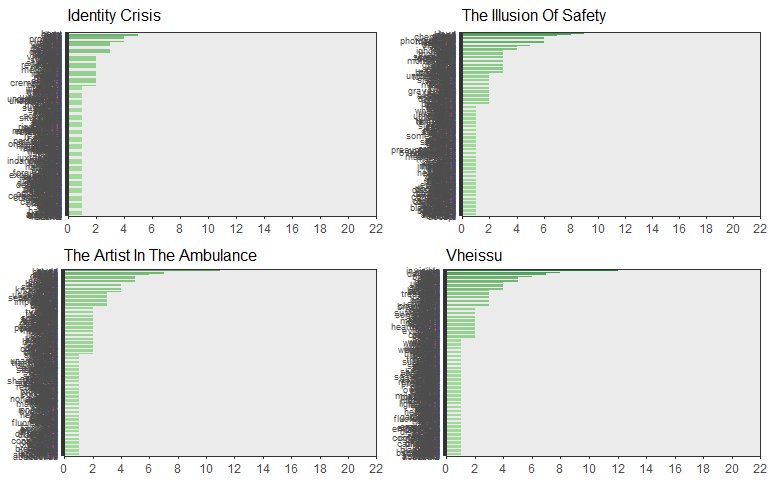
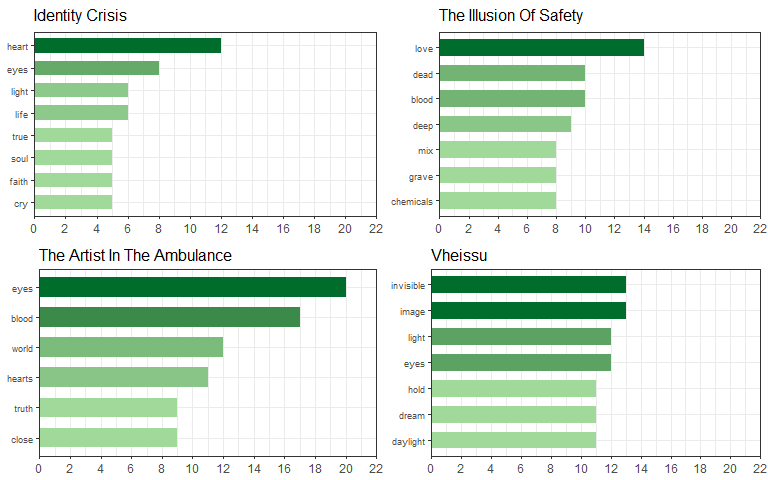
- finally progress on web scraping blog post >>> need to combine it all and make it reproducible across other web pages

Changed region(s): [[0.5, 0.0, 0.9688, 1.0], [0.0, 0.0, 0.4688, 1.0], [0.125, 0.9688, 0.4688, 1.0]]

diff --git a/Part 2/Part2.spin.md b/Part 2/Part2.spin.md
@@ -522,7 +522,7 @@ Now let's try to create plots for the most frequent words for each album. To do 
 word_count_nested <- wordToken2 %>% 
   group_by(album, word) %>% 
   summarize(count = n(), sort = TRUE) %>% 
-  top_n(5) %>% 
+  top_n(5, wt = count) %>% 
   arrange(album, desc(count)) %>% 
   nest() 
 ```
@@ -533,39 +533,30 @@ Let's take a look at the individual elements of our new "data" column!
 word_count_nested$data[[1]]
 ```
 
-    ## # A tibble: 392 x 3
-    ##     word count  sort
-    ##    <chr> <int> <lgl>
-    ##  1 heart    12  TRUE
-    ##  2  eyes     8  TRUE
-    ##  3  life     6  TRUE
-    ##  4 light     6  TRUE
-    ##  5   cry     5  TRUE
-    ##  6 faith     5  TRUE
-    ##  7  soul     5  TRUE
-    ##  8  true     5  TRUE
-    ##  9   day     4  TRUE
-    ## 10  deep     4  TRUE
-    ## # ... with 382 more rows
+    ## # A tibble: 8 x 3
+    ##    word count  sort
+    ##   <chr> <int> <lgl>
+    ## 1 heart    12  TRUE
+    ## 2  eyes     8  TRUE
+    ## 3  life     6  TRUE
+    ## 4 light     6  TRUE
+    ## 5   cry     5  TRUE
+    ## 6 faith     5  TRUE
+    ## 7  soul     5  TRUE
+    ## 8  true     5  TRUE
 
 ``` r
 word_count_nested$data[[5]]
 ```
 
-    ## # A tibble: 178 x 3
-    ##       word count  sort
-    ##      <chr> <int> <lgl>
-    ##  1    free    15  TRUE
-    ##  2    burn    13  TRUE
-    ##  3    send    11  TRUE
-    ##  4    fire    10  TRUE
-    ##  5   flame     9  TRUE
-    ##  6    city     7  TRUE
-    ##  7    eyes     7  TRUE
-    ##  8 breathe     5  TRUE
-    ##  9    door     5  TRUE
-    ## 10   leave     5  TRUE
-    ## # ... with 168 more rows
+    ## # A tibble: 5 x 3
+    ##    word count  sort
+    ##   <chr> <int> <lgl>
+    ## 1  free    15  TRUE
+    ## 2  burn    13  TRUE
+    ## 3  send    11  TRUE
+    ## 4  fire    10  TRUE
+    ## 5 flame     9  TRUE
 
 The most common word data for the first list (Album = **Identity Crisis**) and the fifth list (Album = **AI: Fire**)
 
@@ -595,9 +586,9 @@ str(word_count_nested, list.len = 3, max.level = 2)
     ## Classes 'tbl_df', 'tbl' and 'data.frame':    11 obs. of  3 variables:
     ##  $ album: Factor w/ 11 levels "Identity Crisis",..: 1 2 3 4 5 6 7 8 9 10 ...
     ##  $ data :List of 11
-    ##   ..$ :Classes 'tbl_df', 'tbl' and 'data.frame': 392 obs. of  3 variables:
-    ##   ..$ :Classes 'tbl_df', 'tbl' and 'data.frame': 415 obs. of  3 variables:
-    ##   ..$ :Classes 'tbl_df', 'tbl' and 'data.frame': 422 obs. of  3 variables:
+    ##   ..$ :Classes 'tbl_df', 'tbl' and 'data.frame': 8 obs. of  3 variables:
+    ##   ..$ :Classes 'tbl_df', 'tbl' and 'data.frame': 7 obs. of  3 variables:
+    ##   ..$ :Classes 'tbl_df', 'tbl' and 'data.frame': 6 obs. of  3 variables:
     ##   .. [list output truncated]
     ##  $ plot :List of 11
     ##   ..$ :List of 9
@@ -608,7 +599,7 @@ str(word_count_nested, list.len = 3, max.level = 2)
     ##   .. ..- attr(*, "class")= chr  "gg" "ggplot"
     ##   .. [list output truncated]
 
-On inspection, the `word_count_nested` dataframe consists of three columns of `album`, `data`, and `plot` by 11 rows, one row for each album. The column `data` is a series of lists that holds the *Top 10* or so words for each album (row). For example, the first element of `data` is a data frame of eight observations of two variables, specifically the eight most common words in the first album as rows with word and count as the two column variables. The next column, `plot`, is a series of lists that holds the plot information (the ggplot2 code we added into the data frame with `mutate()`) for each album (row).
+On inspection, the `word_count_nested` dataframe consists of three columns of `album`, `data`, and `plot` by 11 rows, one row for each album. The column `data` is a series of lists that holds the *Top 5* (give or take a few tied ranked) words for each album (row). For example, the first element of `data` is a data frame of eight observations of two variables, specifically the eight most common words in the first album as rows with word and count as the two column variables. The next column, `plot`, is a series of lists that holds the plot information (the ggplot2 code we added into the data frame with `mutate()`) for each album (row).
 
 By selecting the specific element within the list, we can extract the plot for a certain album
 
@@ -662,12 +653,12 @@ str(nested_plots, list.len = 2, max.level = 2)
 
     ## List of 4
     ##  $ :List of 9
-    ##   ..$ data       :Classes 'tbl_df', 'tbl' and 'data.frame':  392 obs. of  3 variables:
+    ##   ..$ data       :Classes 'tbl_df', 'tbl' and 'data.frame':  8 obs. of  3 variables:
     ##   ..$ layers     :List of 1
     ##   .. [list output truncated]
     ##   ..- attr(*, "class")= chr [1:2] "gg" "ggplot"
     ##  $ :List of 9
-    ##   ..$ data       :Classes 'tbl_df', 'tbl' and 'data.frame':  415 obs. of  3 variables:
+    ##   ..$ data       :Classes 'tbl_df', 'tbl' and 'data.frame':  7 obs. of  3 variables:
     ##   ..$ layers     :List of 1
     ##   .. [list output truncated]
     ##   ..- attr(*, "class")= chr [1:2] "gg" "ggplot"
